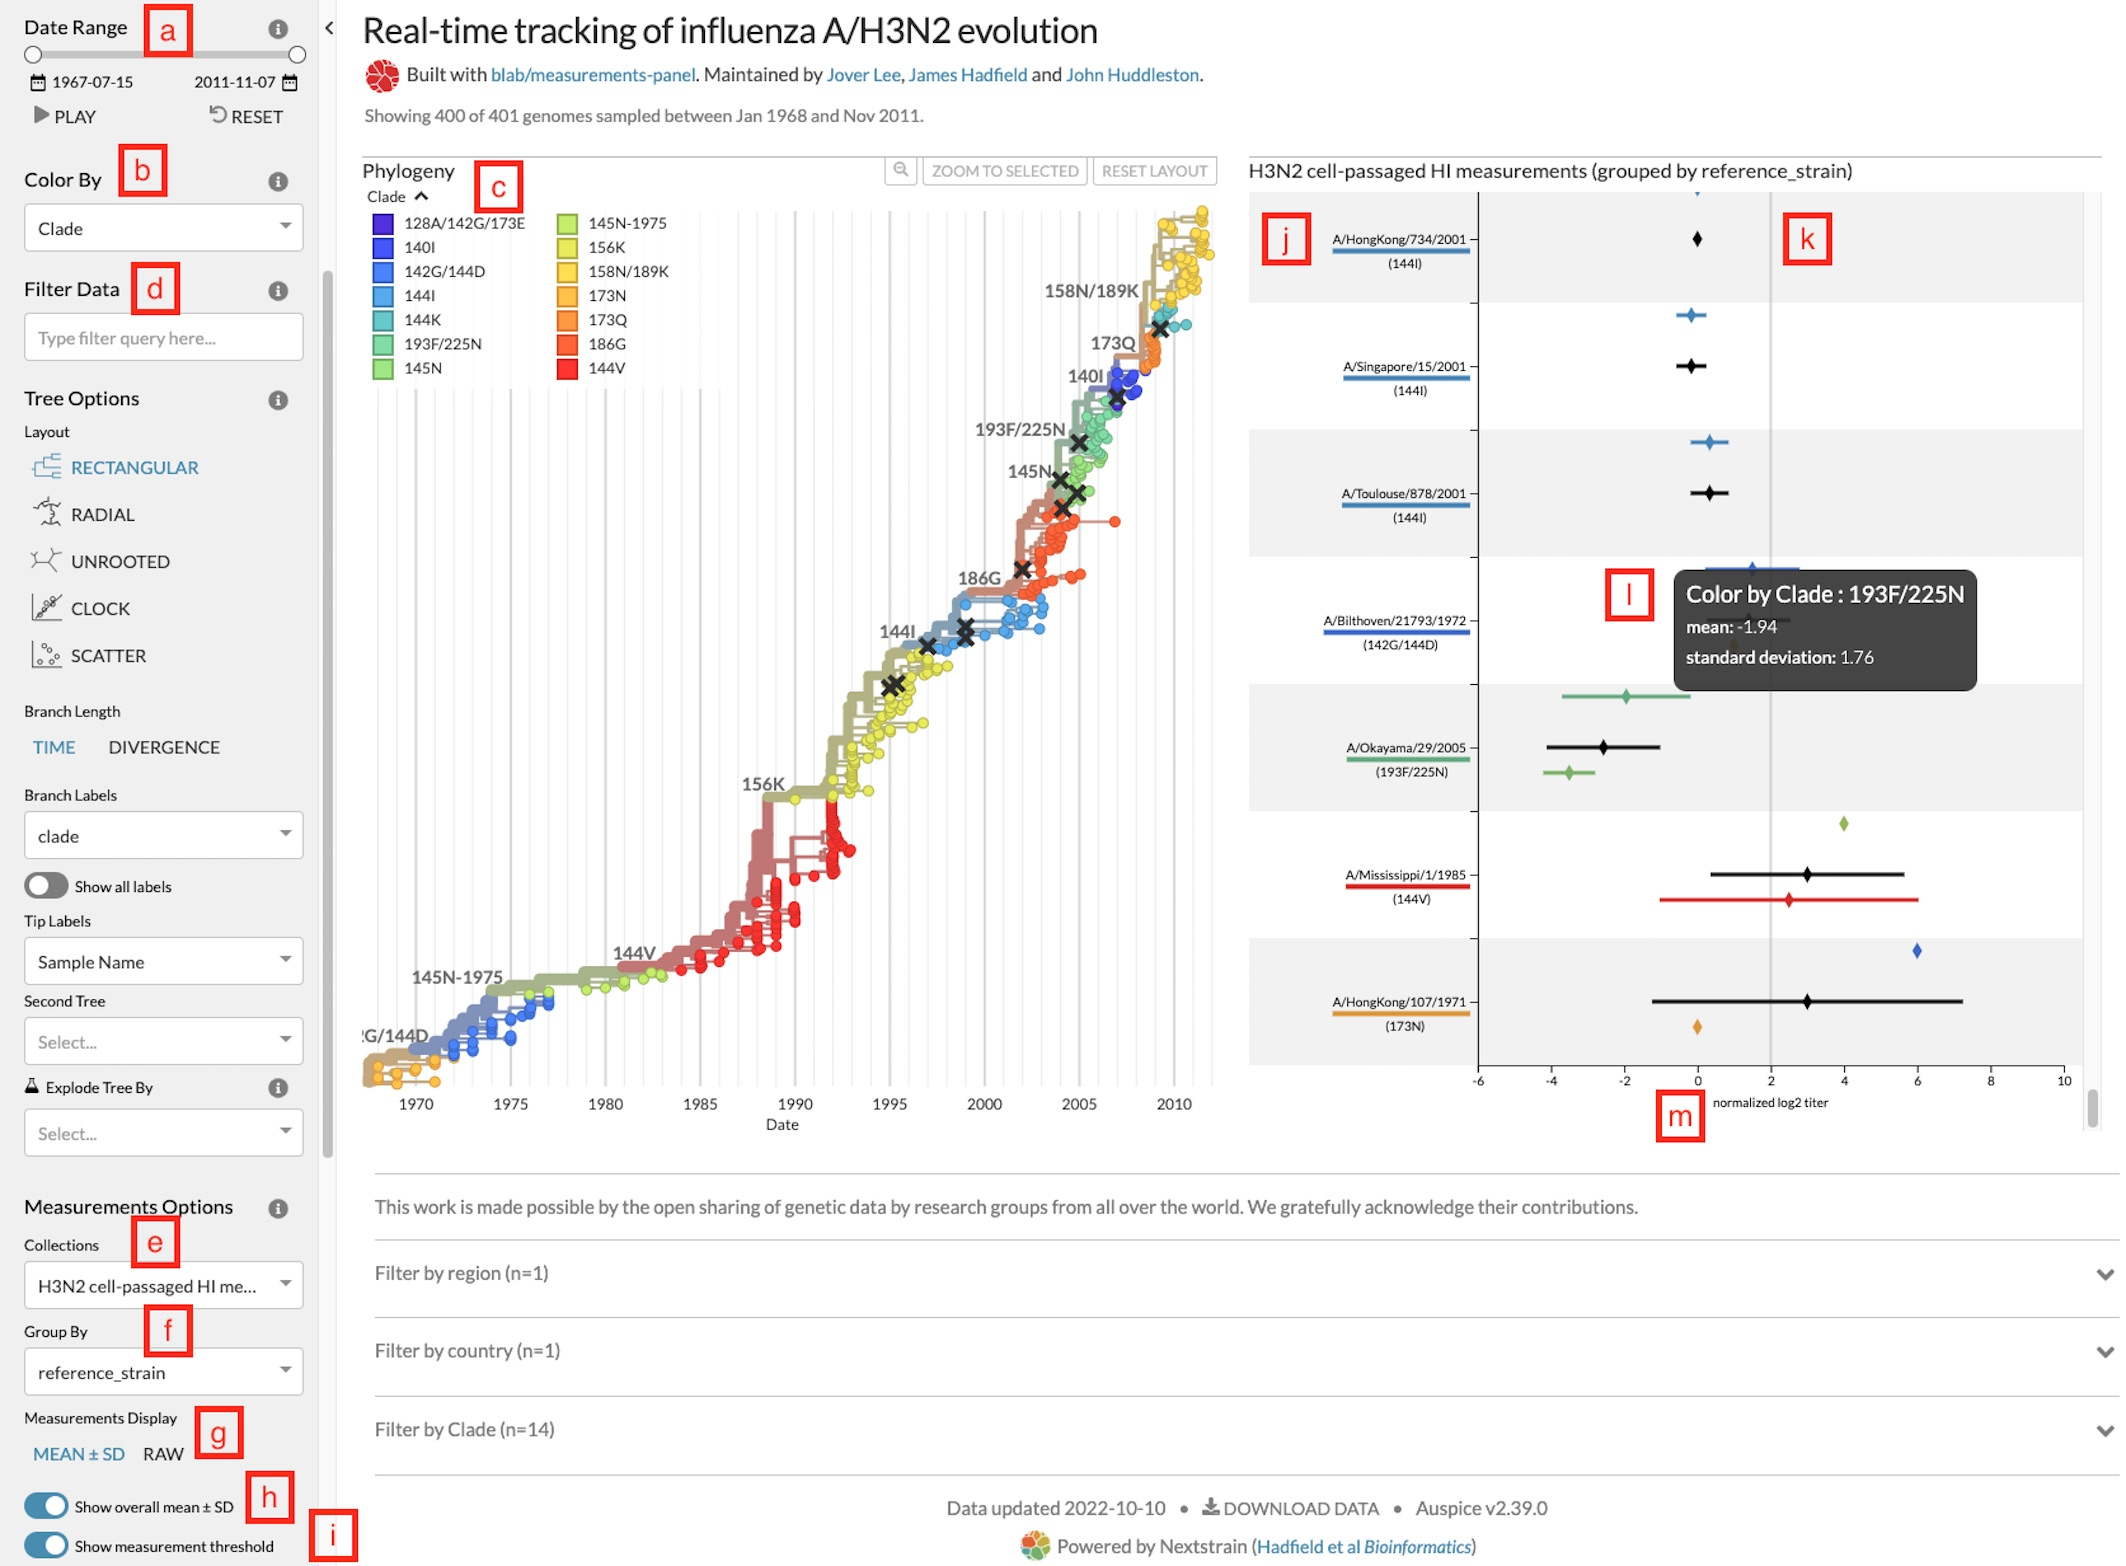
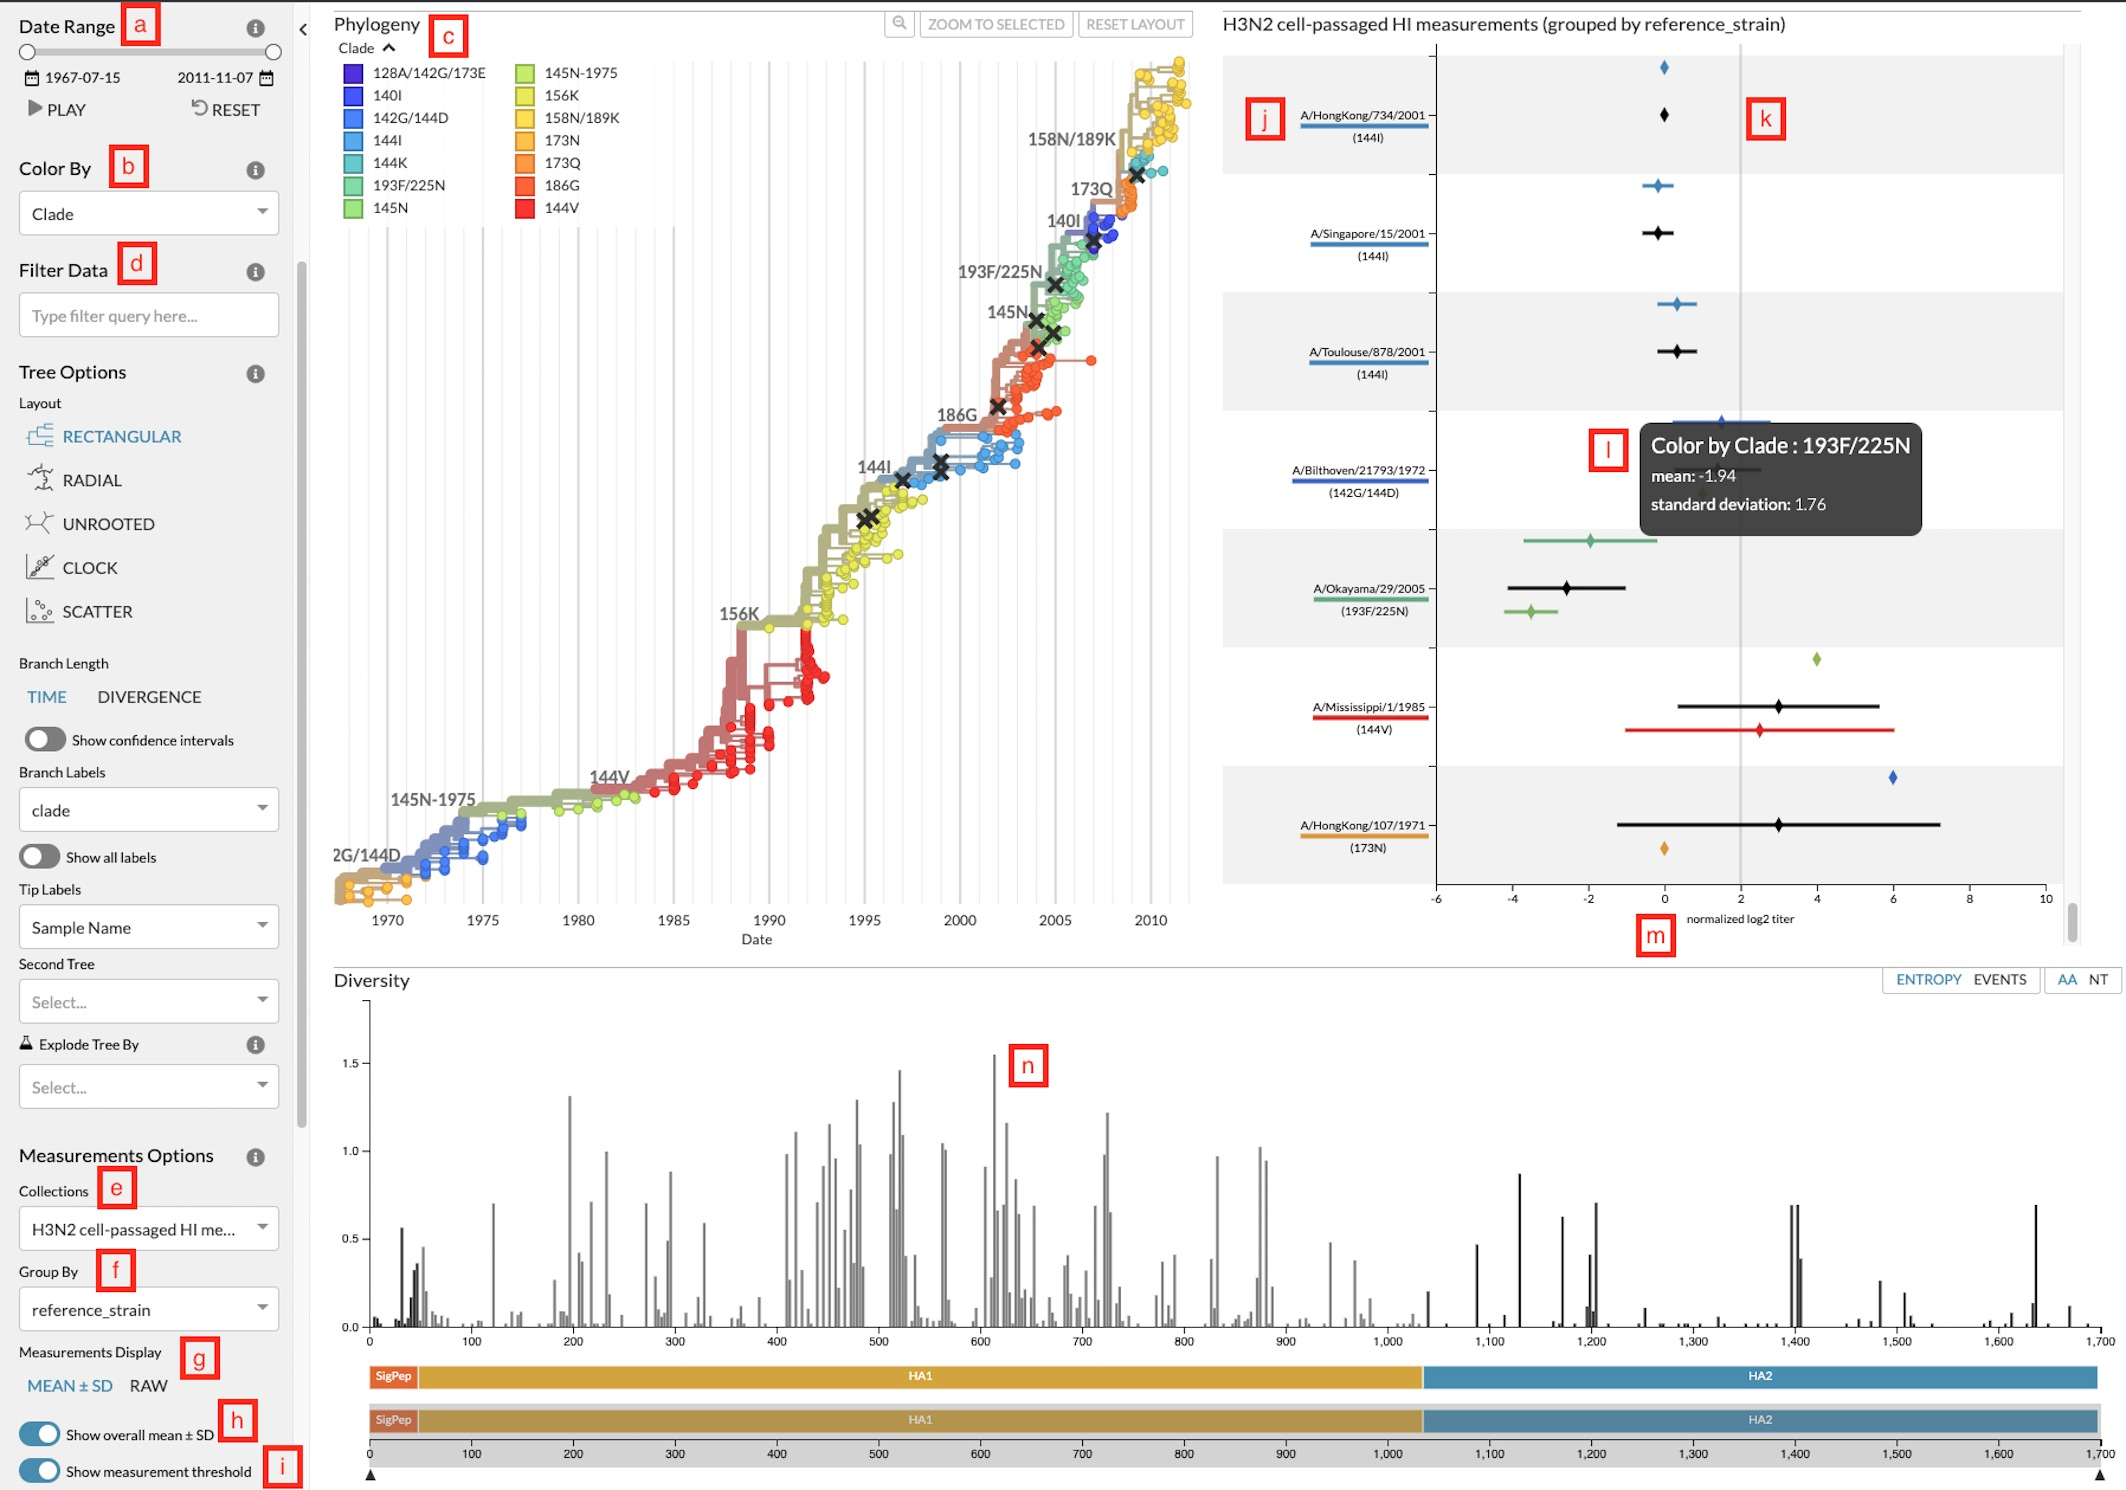
Update Fig2 to include diversity panel
Includes the new screenshot that has the diversity panel and updates
the Figure 2 caption.

diff --git a/manuscript/measurements-panel.tex b/manuscript/measurements-panel.tex
@@ -313,7 +313,7 @@ This view allows users to perform the same tasks as the interval plot, but it al
     \includegraphics[width=\textwidth]{figures/figure-2-screen-shot}
   \end{center}
   \caption{
-    Screenshot of Auspice with the sidebar controls, the phylogenetic tree panel, and the measurements panel.
+    Screenshot of Auspice with the sidebar controls, the phylogenetic tree panel, the measurements panel, and the diversity panel.
 a) Date range slider to filter both tree and measurements by the test virus sample date.
 b) Color-by dropdown to change the attribute to use for coloring the tree and measurements.
 c) Legend for colors and their corresponding values linked to viruses in the tree and measurements.
@@ -329,6 +329,7 @@ k) The threshold line for titer measurements to indicate the threshold for antig
 l) The tooltip that displays more details for the hovered measurement.
 This particular view hovers over a mean and standard deviation.
 m) The x-axis of the measurements plot shows the range of measurements values in this collection.
+n) Clicking on a bar in the diversity panel updates the tree and measurements to color by genotypes at that position.
   }\label{fig:2}
 \end{figure}
 
